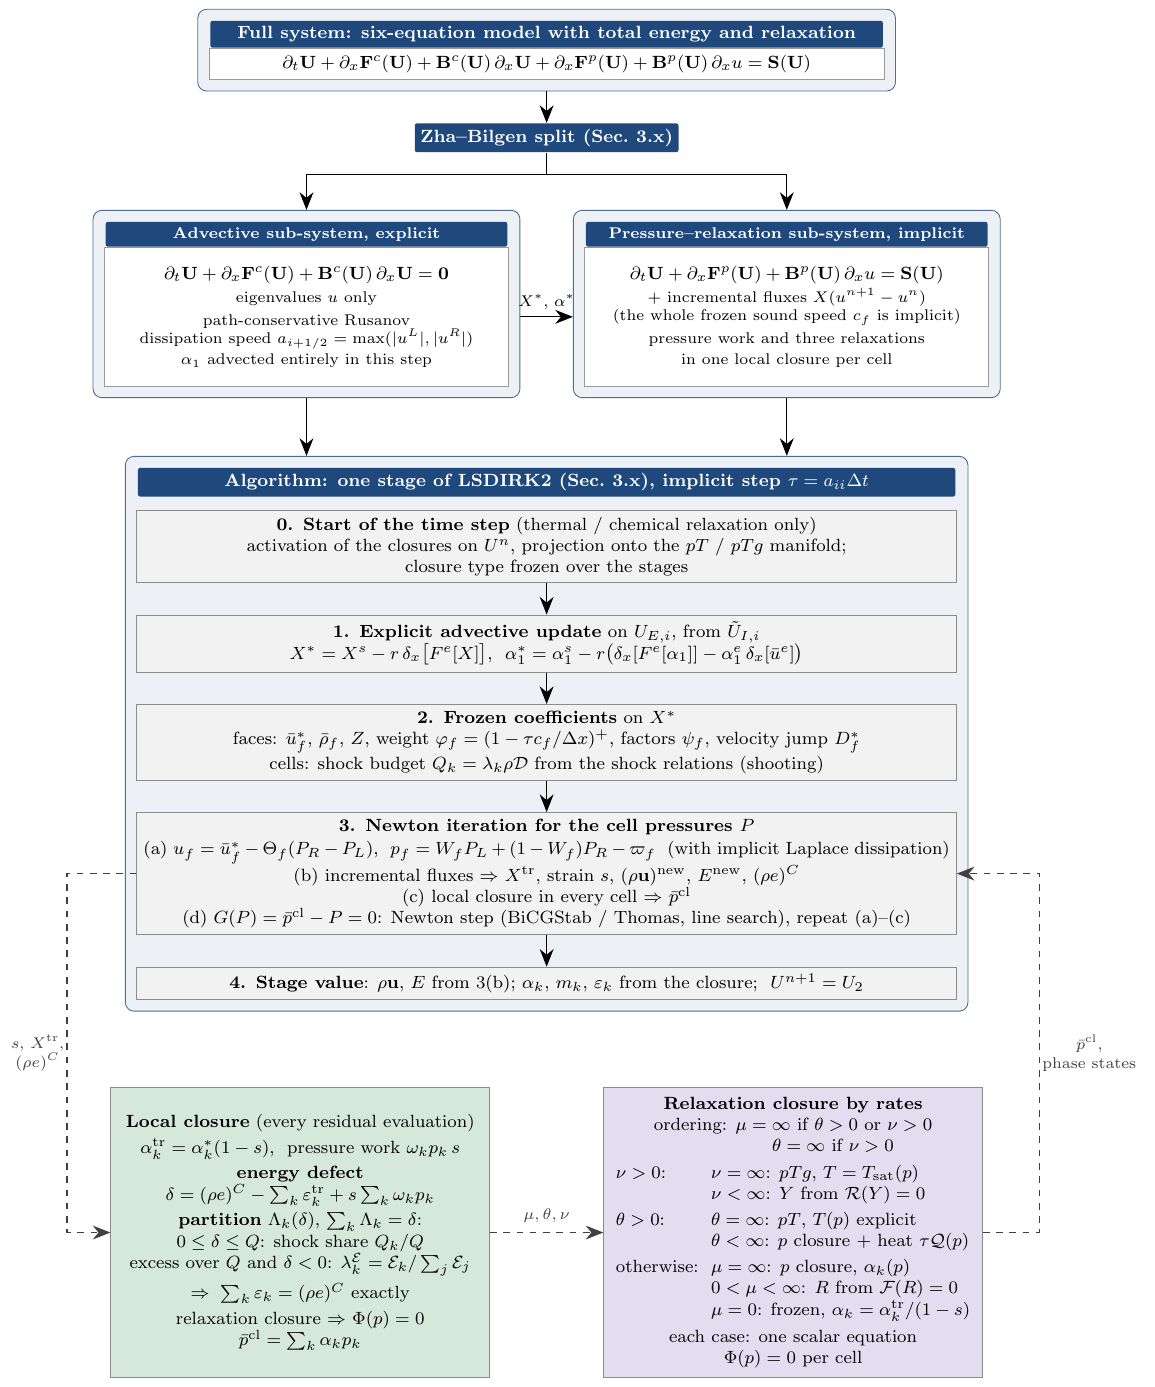
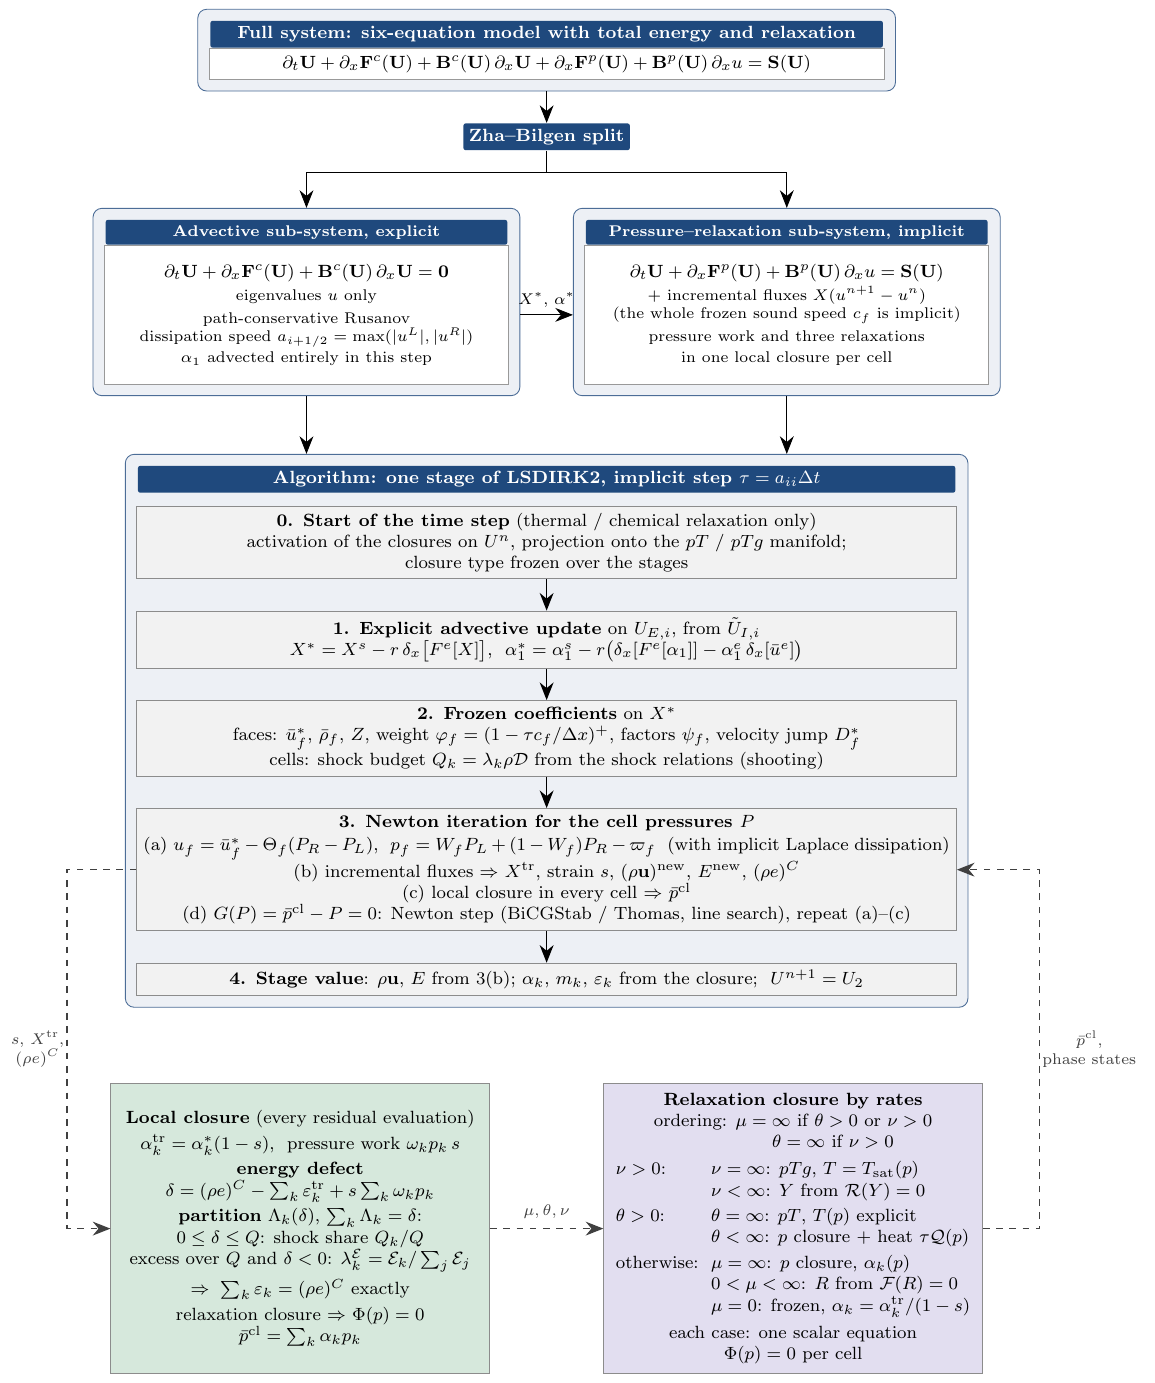
Flowchart: no section references in the headers
Claude-Session: https://claude.ai/code/session_01S1n65tsz3avypBq5vvRFNT

diff --git a/paper/figures/scheme.tex b/paper/figures/scheme.tex
@@ -21,7 +21,7 @@
   \node[outer, fit=(full)(fullh)] (fullbox) {};
 \end{scope}
 
-\node[hdr, below=5mm of fullbox] (split) {Zha--Bilgen split (Sec.~\ref{sec:split})};
+\node[hdr, below=5mm of fullbox] (split) {Zha--Bilgen split};
 \draw[->] (fullbox.south) -- (split.north);
 
 % ----------------------------------------------------------------- the two sub-systems
@@ -51,7 +51,7 @@
 
 % ----------------------------------------------------------------- one stage
 \node[hdr, below=11mm of split.south |- advbox.south, text width=12.8cm, align=flush center] (alh)
-  {Algorithm: one stage of LSDIRK2 (Sec.~\ref{sec:time}), implicit step $\tau=a_{ii}\Delta t$};
+  {Algorithm: one stage of LSDIRK2, implicit step $\tau=a_{ii}\Delta t$};
 \node[step, below=2mm of alh] (s0)
   {\textbf{0. Start of the time step} (thermal / chemical relaxation only)\\
    activation of the closures on $U^n$, projection onto the $pT$ / $pTg$ manifold;\\ closure type frozen over the stages};
